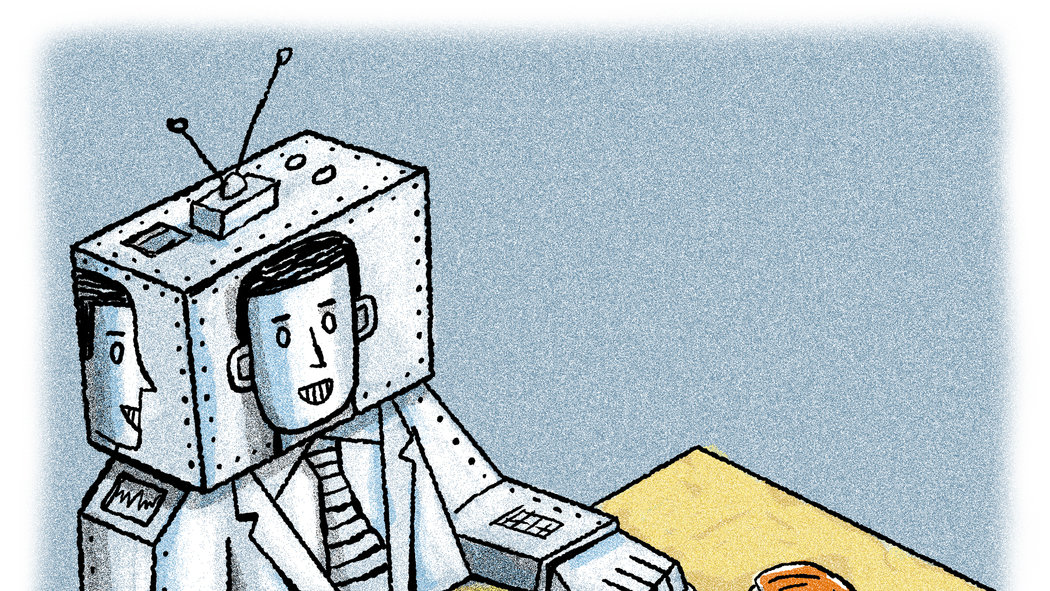
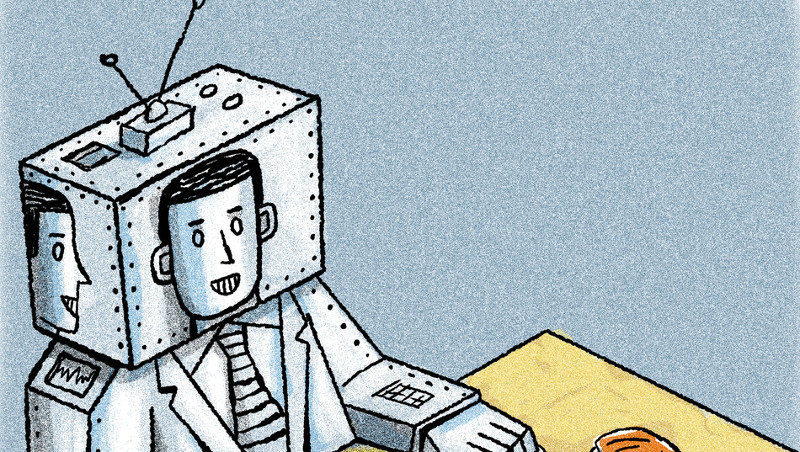
Update photo on robo-advice

diff --git a/pages/resources.html b/pages/resources.html
@@ -7,7 +7,7 @@
         <article ng-hide="blogCategory !== 'All' && blogCategory !== 'Investing Information'"><!--Update based on post-->
             <div class="blogexcerpt">
                 <div class="blogexcerpt-photocontainer">
-                    <img ng-src="img/blogphotos/intro/robo_advice_intro.png" class="blogexcerpt-photo"/><!--Update based on post-->
+                    <img ng-src="img/blogphotos/intro/robo_advice_intro.jpg" class="blogexcerpt-photo"/><!--Update based on post-->
                 </div>
                 <div class="blogexcerpt-info">
                     <p class="blogexcerpt-infotext">                    

diff --git a/pages/blog/what-you-need-to-know-about-robo-advice.html b/pages/blog/what-you-need-to-know-about-robo-advice.html
@@ -3,7 +3,7 @@
         <article>
             <div class="blogexcerpt">
                 <div class="blogexcerpt-photocontainer">
-                    <img ng-src="img/blogphotos/intro/robo_advice_intro.png" class="blogexcerpt-photo"/><!--Update based on post-->
+                    <img ng-src="img/blogphotos/intro/robo_advice_intro.jpg" class="blogexcerpt-photo"/><!--Update based on post-->
                 </div>
                 <div class="blogexcerpt-info">
                     <p class="blogexcerpt-infotext">                    <i class="fa fa-calendar"></i>&nbsp;&nbsp;5th August, 2015
